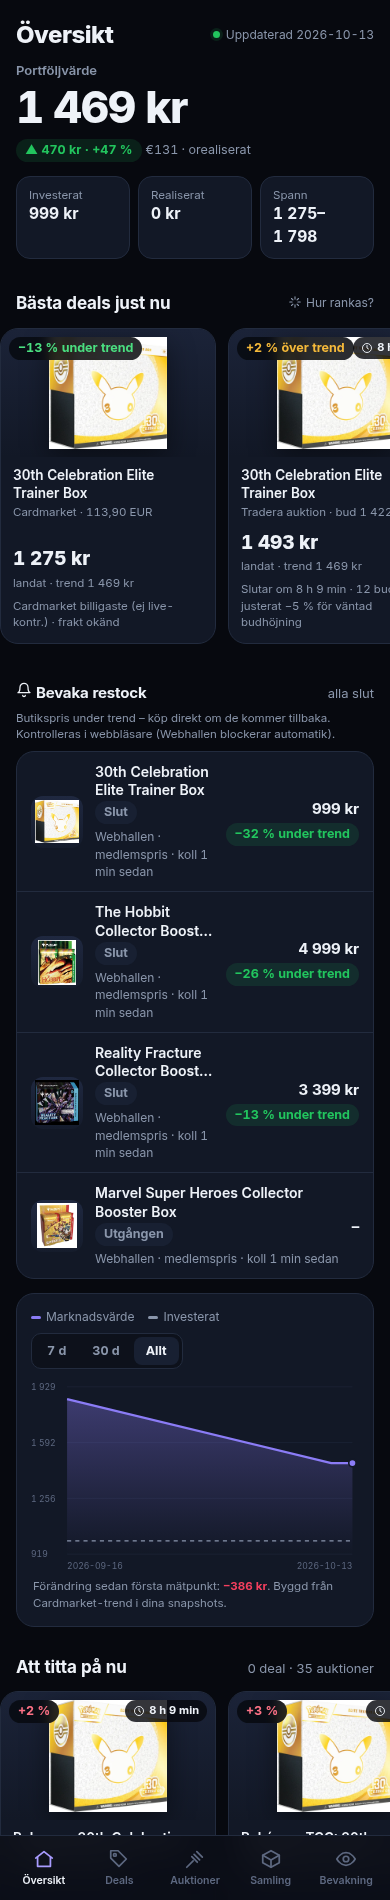
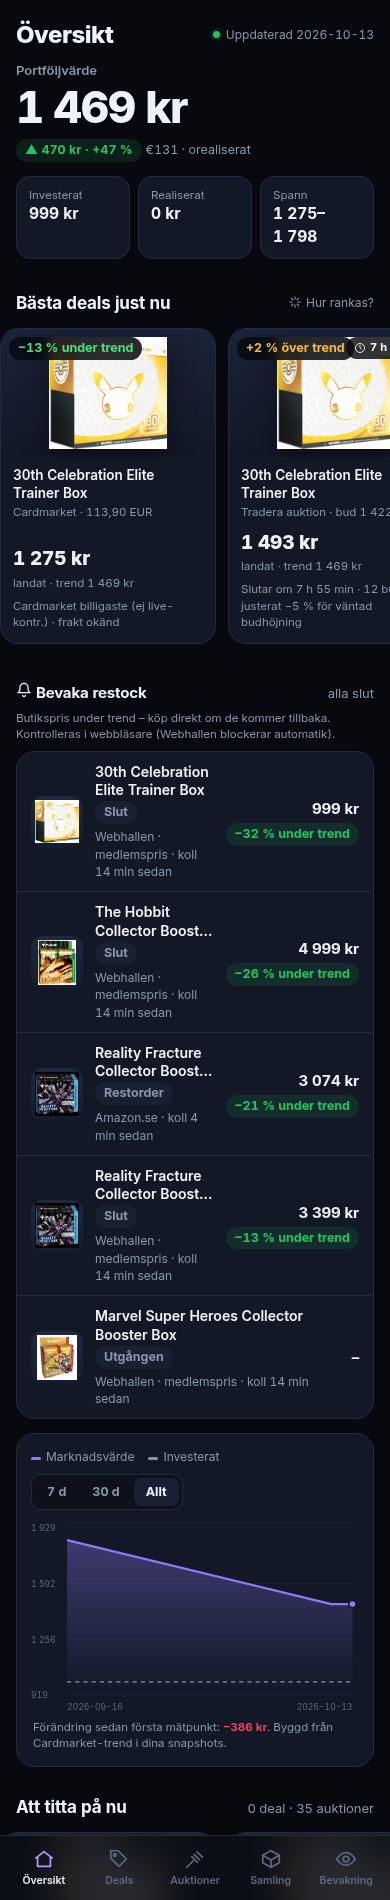
Amazon.se-erbjudanden, Innistrad: Midnight Hunt, README

diff --git a/app.js b/app.js
@@ -198,7 +198,7 @@ function restock() {
   return `<div class=sec><h2 style="font-size:15px">${ic("bell", 16)} Bevaka restock</h2><span>${L.filter(o => o.stock_status === "in_stock").length ? '<b class=g>I LAGER!</b>' : "alla slut"}</span></div>
   <p class="xs mut" style="margin:-4px 0 8px">Butikspris under trend – köp direkt om de kommer tillbaka. Kontrolleras i webbläsare (Webhallen blockerar automatik).</p>
   <div class=list>${L.map(o => `<a class=row href="${esc(o.url)}" target=_blank rel=noopener><div class=th>${img(o.item)}</div><div><div class=nm>${esc(short(o.item.name))}</div>
-    <div class=meta><span class="chip ${o.stock_status === "in_stock" ? "c-g" : "c-n"}">${o.discontinued ? "Utgången" : o.stock_status === "in_stock" ? "I lager!" : "Slut"}</span>${esc(o.source)}${o.members_only ? " · medlemspris" : ""} · koll ${ago(o.stock_checked_at)}</div></div>
+    <div class=meta><span class="chip ${o.stock_status === "in_stock" ? "c-g" : "c-n"}">${o.discontinued ? "Utgången" : o.stock_status === "in_stock" ? "I lager!" : o.stock_status === "preorder" ? "Restorder" : "Slut"}</span>${esc(o.source)}${o.members_only ? " · medlemspris" : ""} · koll ${ago(o.stock_checked_at)}</div></div>
     <div class=rt><b>${o.price != null ? kr(o.price) : "–"}</b>${o.d != null ? vs(o.d) : ""}</div></a>`).join("")}</div>`;
 }
 function bestOf() {

diff --git a/index.html b/index.html
@@ -1,7 +1,7 @@
 <!doctype html><html lang="sv"><head><meta charset="utf-8">
 <meta name="viewport" content="width=device-width,initial-scale=1,viewport-fit=cover">
 <meta name="theme-color" content="#07090f"><meta name="apple-mobile-web-app-capable" content="yes"><meta name="apple-mobile-web-app-status-bar-style" content="black-translucent">
-<title>Samlarportfölj</title><link rel="stylesheet" href="style.css?v=19"></head>
+<title>Samlarportfölj</title><link rel="stylesheet" href="style.css?v=20"></head>
 <body>
 <div class="shell">
   <aside class="side" id="side"></aside>
@@ -10,4 +10,4 @@
   </main>
 </div>
 <nav class="tabbar" id="tabbar"></nav>
-<script src="app.js?v=19"></script></body></html>
+<script src="app.js?v=20"></script></body></html>

diff --git a/README.md b/README.md
@@ -99,3 +99,9 @@ Ranking av **enskilda köpbara erbjudanden** över alla objekt (app.js `dealCand
 Webhallen blockerar curl/automatik. Erbjudanden med `manual_stock_check: "browser"` hoppas över av `stockcheck.py` och ska **kontrolleras i webbläsaren (computerUse)** varje rutin: öppna varje Webhallen-URL med `restock_watch: true`, läs lagerstatus för webb och butik, uppdatera `stock_status`, `stock_checked_at`, `stock_evidence` (och pris) i data.json.
 **Om något är i lager (webb eller butik): meddela Gustaf omedelbart** (produkt, pris, länk, ev. köpbegränsning/medlemskrav) – vänta inte på rutinrapporten.
 Sajten visar dessa i sektionen "Bevaka restock" på Översikt (butikspris under trend, t.ex. 30th ETB 999 kr, Hobbit 4 999 kr).
+
+## Amazon.se (manuell webbläsarkoll, sparsamt)
+Amazon.se blockerar curl och felar i webbläsaren efter några sidladdningar. Erbjudanden med `manual_stock_check: "browser"` hoppas över av `stockcheck.py`; kontrollera dem i webbläsaren (computerUse) **sparsamt** (några produktsidor per rutin, inte sökningar i serie). Notera säljare (Amazon vs tredjepart), frakt, leveranstid (lång leveranstid = `stock_status: "preorder"`, `backorder: true`) och språk. Exkludera icke-engelska (t.ex. tysk Duskmourn, se `excluded` i data.json).
+
+## Restock-notiser via e-post
+Botens inkorg **gurragull@mail.grokbot.com** kan användas för butikernas "meddela mig när i lager"-notiser. Använd +taggar per butik/produkt, t.ex. `gurragull+webhallen-hobbit@mail.grokbot.com`, `gurragull+amazon@mail.grokbot.com`. Rutinen söker i inkorgen efter nya notiser och meddelar Gustaf direkt vid restock.
